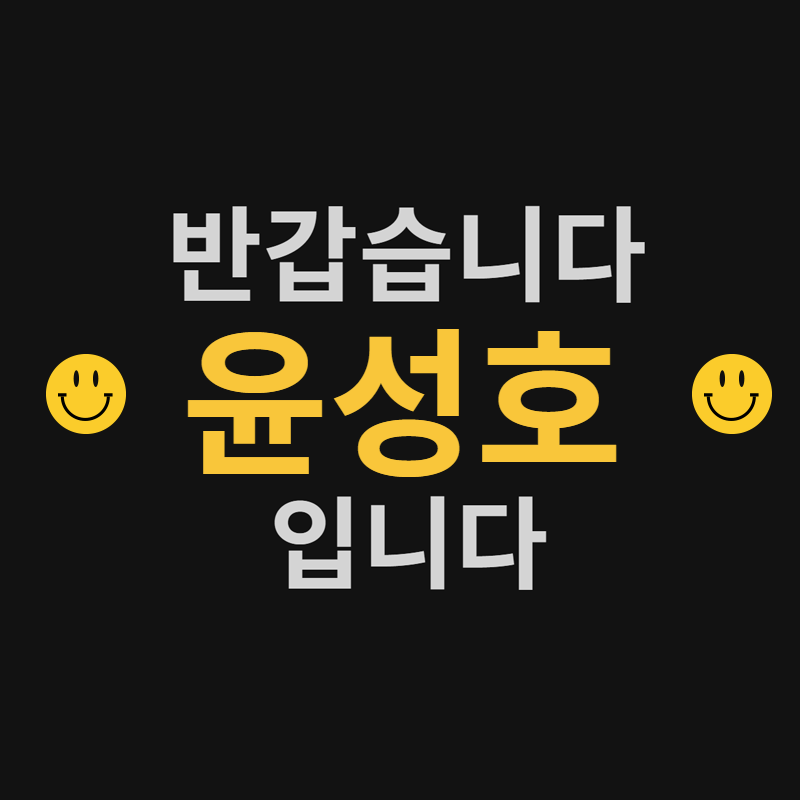
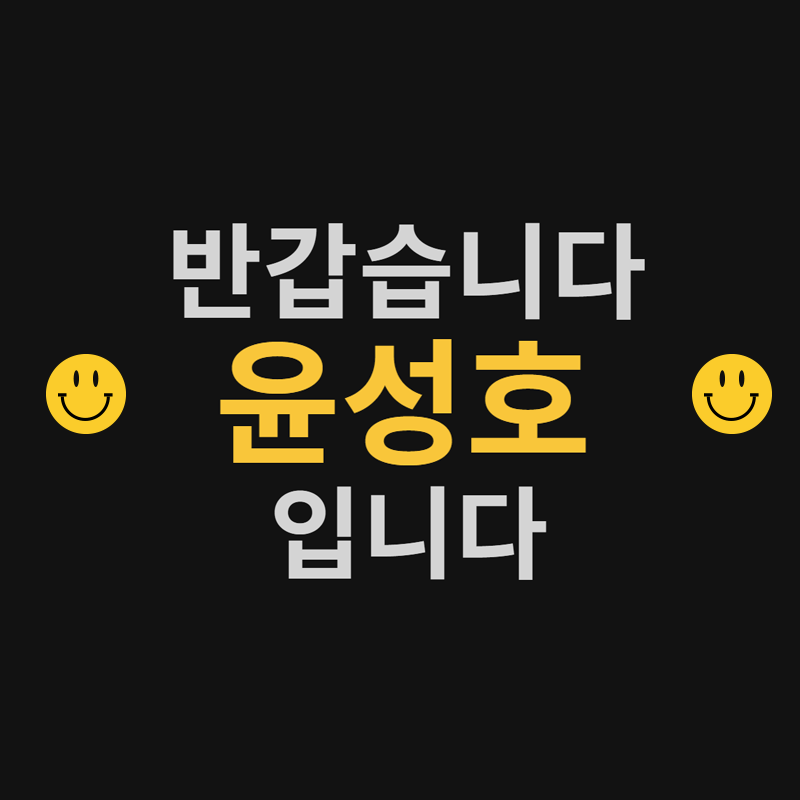
전체적으로 수정
하단 네비게이션 바 수정,
기술 스택 부분 폰트 사이즈 변경,
프로젝트 소개 grid 가로 사이즈 뷰포트 관련 수정
open graph 이미지 가시성 확보

diff --git a/css/index.css b/css/index.css
@@ -5,7 +5,7 @@ span{color:#fac728;}
 h2{font-size:160px;}
 nav{
     width:100%;
-    height:100px;
+    height:80px;
     position:fixed;
     bottom:0;
     left:50%;transform:translate(-50%,0);
@@ -28,21 +28,21 @@ animation-fill-mode:none;}
 }
 nav #home2 {background:url(../images/go_top.png) no-repeat; background-size:cover;  width:45px; margin-right:18px; margin-bottom:8px;height:65px; position:fixed; z-index: 100; bottom:150px; right:10vw; padding:10px;}
 nav #portfolio_nav{
-    height:100px;
+    height:80px;
     width:80vw;
     margin:0 auto;   
     background-color:#121212;
 }
 nav #portfolio_nav ul{
-    height:100px;
+    height:80px;
     list-style: none;
     padding:0; margin:0;
     display:grid; grid-template-columns: repeat(5,200px) 1fr;
     place-items:center;
     border:1px solid #d4d4d4;   
 }
-nav #portfolio_nav ul li{display:grid; width:200px; height:100px; place-items:center; }
-nav #portfolio_nav ul li a{display:grid; width:200px; height:100px; place-items:center; text-decoration-line: none; color:#d4d4d4;}
+nav #portfolio_nav ul li{display:grid; width:200px; height:80px; place-items:center; }
+nav #portfolio_nav ul li a{display:grid; width:200px; height:80px; place-items:center; text-decoration-line: none; color:#d4d4d4;font-size:22px; font-weight:500;}
 nav #portfolio_nav ul li:nth-child(1){grid-column:1/2; border:1px solid #d4d4d4;}
 nav #portfolio_nav ul li:nth-child(2){grid-column:2/3; border:1px solid #d4d4d4;}
 nav #portfolio_nav ul li:nth-child(3){grid-column:3/4; border:1px solid #d4d4d4;}
@@ -64,35 +64,34 @@ main #main1 #main1_2{margin:0 auto; text-align:center;}
 main #main1 #main1_3{display:grid; grid-template-columns: 1fr 490px 100px 180px 2fr; place-items: center;}
 main #main1 #main1_3 h2 {grid-column:2/3;}
 main #main1 #main1_3 div{grid-column:4/5; font-size:30px;}
-main #main2 {margin-top: 100px;}
+main #main2 {margin-top: 125px;}
 main #main2 div{margin:0 auto; width: 75vw; border-top:1px solid #d4d4d4;border-bottom:1px solid #d4d4d4;}
 main #main2 div h3{font-size:65px; text-align:center;}
-main #main3 {margin-top:150px; position:relative; height: 1600px;}
+main #main3 {margin:0 auto; margin-top:150px; position:relative; height: 1600px; }
 main #main3 div {border:1px solid #d4d4d4; border-radius:550px; width:550px; height:550px; display:grid; place-items: center; grid-template-rows:70px 50px 150px repeat(3,40px) 10px; z-index:1;}
-main #main3 div h4{font-size:40px; color:#fac728;margin:0; grid-row:2/3; font-weight:normal;}
-main #main3 div p{font-size:24px; color:#d4d4d4; margin:10px;}
-main #main3 div p:nth-child(2){grid-row:4/5}
+main #main3 div h4{font-size:35px; color:#fac728;margin:0; grid-row:2/3; font-weight:normal;}
+main #main3 div p{font-size:20px; color:#d4d4d4; margin:10px;}
+main #main3 div p:nth-child(2){grid-row:4/5;}
 main #main3 div p:nth-child(3){grid-row:5/6}
 main #main3 div p:nth-child(4){grid-row:6/7}
 main #main3 div p:nth-child(5){grid-row:7/8}
-main #main3 #main3_1{position:absolute; left:8.25vw;}
+main #main3 #main3_1{position:absolute; left:8.25vw; }
 main #main3 #main3_2{position:absolute; left:50%; transform:translate(-50%,0);}
 main #main3 #main3_3{position:absolute; right:8.25vw;}
 main #main3 #main3_4{position:absolute; left:22.5vw; top:450px}
 main #main3 #main3_5{position:absolute; right:22.5vw; top:450px;}
 main #main3 #main3_6{position:absolute; top:900px ;left:50%; transform:translate(-50%,0);grid-template-rows:180px 50px 70px repeat(4,40px) 10px}
-main #main3 #main3_6 h4{word-spacing: -10px;}
 main #main4 {margin-top: 100px;}
 main #main4 div{margin:0 auto; width: 66vw; border-top:1px solid #d4d4d4;border-bottom:1px solid #d4d4d4;}
 main #main4 div h3{font-size:85px; text-align:center;}
-main #main5 {height: 2000px; display:grid; grid-template: 100px repeat(20,90px) 100px / 10vw repeat(11,156px) 10vw;}
+main #main5 {margin:0 auto; height: 2000px; display:grid; grid-template: 100px repeat(20,90px) 100px / 6vw repeat(11,8vw) 6vw;}
 main #main5 div{width:780px; height:520px;}
-main #main5 #main5_1{width:780px; height:540px; border:1px solid #d4d4d4; background-color: #121212;z-index: 1; grid-row: 2/8; grid-column:4/9;}
-main #main5 #main5_2{width:780px; height:540px; border:1px solid #d4d4d4; background-color: #121212;z-index: 5; grid-row: 7/13; grid-column:6/11;}
-main #main5 #main5_3{width:780px; height:540px; border:1px solid #d4d4d4; background-color: #121212;z-index: 2; grid-row: 11/17; grid-column:2/7;}
-main #main5 #main5_4{width:780px; height:540px; border:1px solid #d4d4d4; background-color: #121212;z-index: 4; grid-row:12/18; grid-column:7/12;}
-main #main5 #main5_5{width:780px; height:540px; border:1px solid #d4d4d4; background-color: #121212;z-index: 3; grid-row:16/22; grid-column:3/8;}
-footer{margin-bottom:150px;}
+main #main5 #main5_1{width:40vw; height:540px; border:1px solid #d4d4d4; background-color: #121212;z-index: 1; grid-row: 2/8; grid-column:4/9;}
+main #main5 #main5_2{width:40vw; height:540px; border:1px solid #d4d4d4; background-color: #121212;z-index: 5; grid-row: 7/13; grid-column:6/11;}
+main #main5 #main5_3{width:40vw; height:540px; border:1px solid #d4d4d4; background-color: #121212;z-index: 2; grid-row: 11/17; grid-column:2/7;}
+main #main5 #main5_4{width:40vw; height:540px; border:1px solid #d4d4d4; background-color: #121212;z-index: 4; grid-row:12/18; grid-column:7/12;}
+main #main5 #main5_5{width:40vw; height:540px; border:1px solid #d4d4d4; background-color: #121212;z-index: 3; grid-row:16/22; grid-column:3/8;}
+footer{margin-bottom:185px;}
 footer #footer_top {display:grid; height:300px; grid-template-columns:10vw 1100px 1fr 10vw ;align-items: end; justify-items: start; margin-top:200px;}
 footer #footer_top div{grid-column: 2/3; display:grid; grid-template-columns:800px 350px;}
 footer #footer_top div h2{margin:0; grid-column:1/2; border-bottom:1px solid #d4d4d4;  padding-bottom:30px;}
